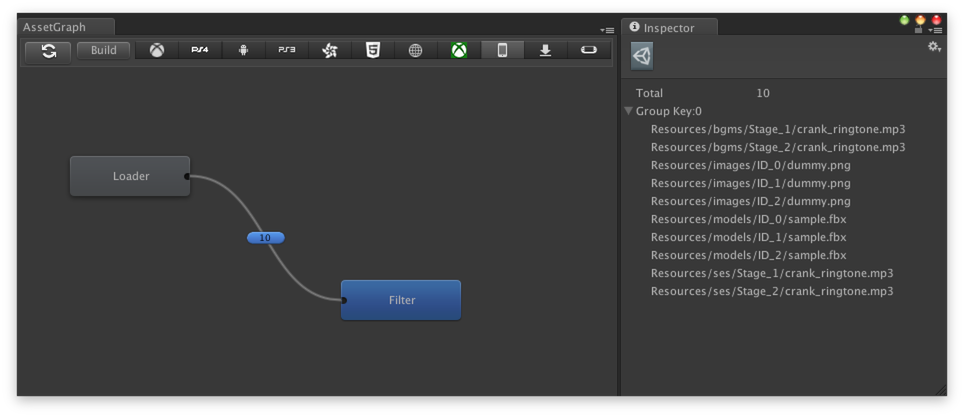
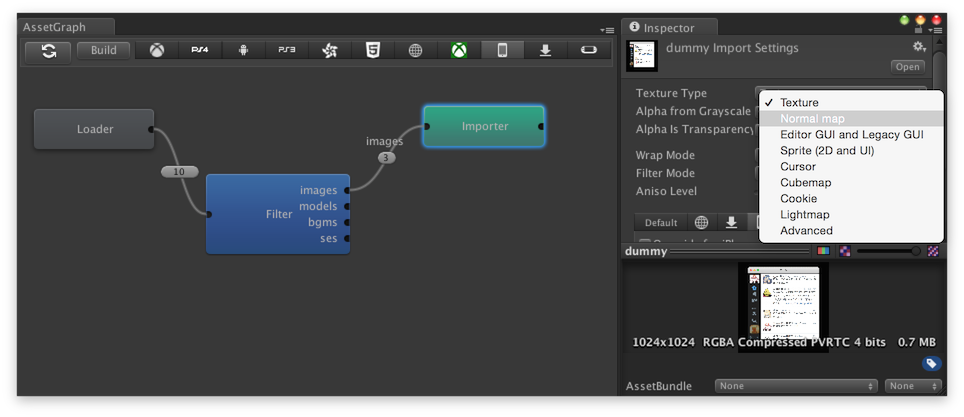
rename screenshots.

diff --git a/README.md b/README.md
@@ -11,13 +11,13 @@ AssetGraph is a graph editor for generate Unity Assets from any resources.
 Put nodes on canvas.  
 ![SS](/Doc/1.png)
 
-###2.Set Parameters for each nodes
-Every nodes has parameters for customize resources.
-Set it from that Inspector.  
+###2.Connect them
+Let it connect! You can preview which resources will run on the connection.  
 ![SS](/Doc/2.png)
 
-###3.Connect them
-Let it connect! You can preview which resources will run on the connection.  
+###3.Set Parameters for each nodes
+Every nodes has parameters for customize resources.
+Set it from that Inspector.  
 ![SS](/Doc/3.png)
 
 ###4.Build!
